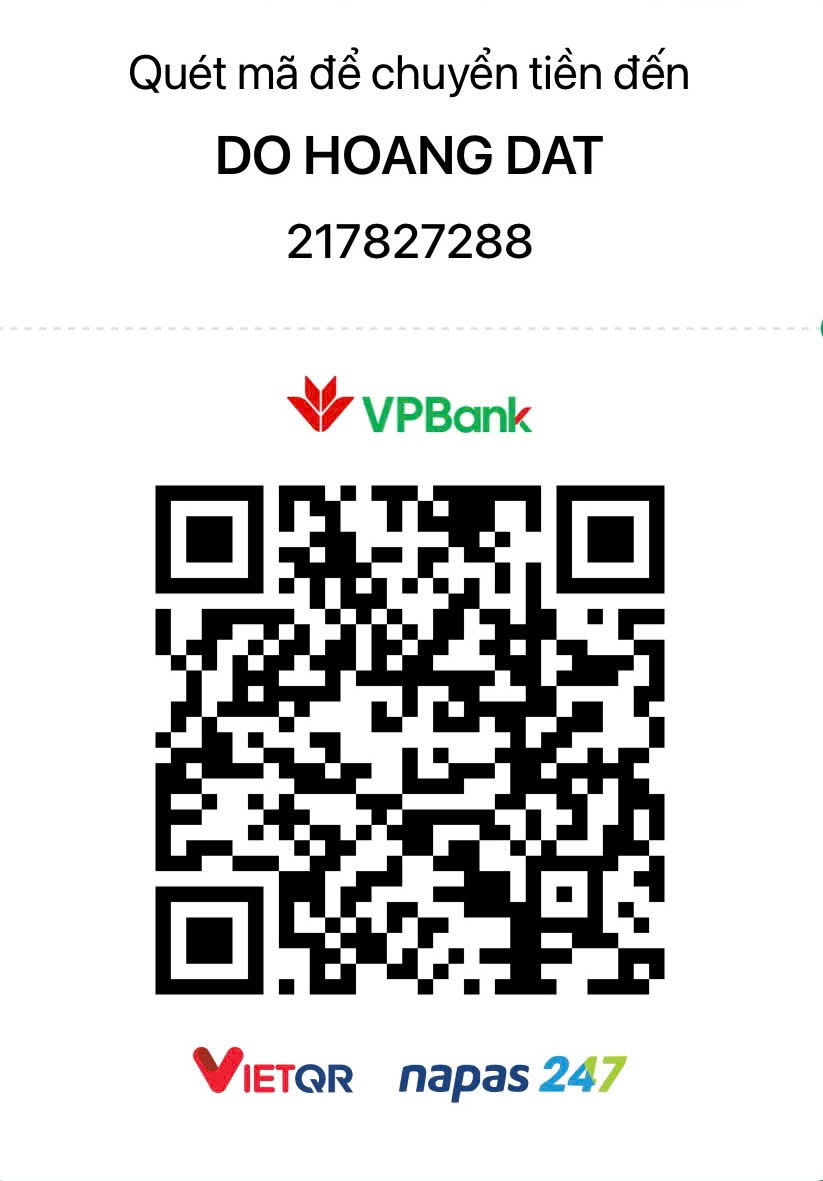
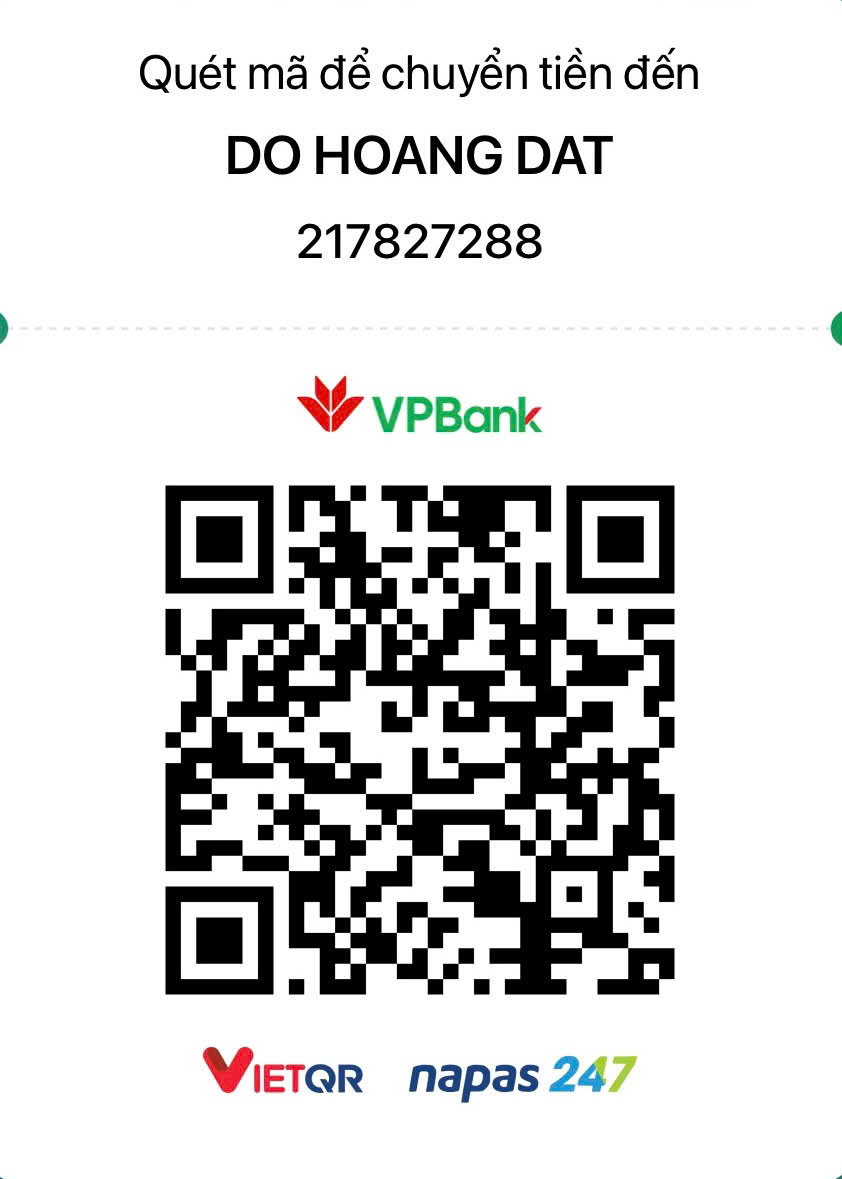
feat: update QR code

diff --git a/src/components/Wishes/index.jsx b/src/components/Wishes/index.jsx
@@ -8,7 +8,7 @@ function Wishes(props) {
   const [isCopied, setIsCopied] = useState(false);
 
   const handleCopyText = async () => {
-    const currentQR = showTicket === 'co_dau' ? '5022032024' : '217827288';
+    const currentQR = showTicket === 'co_dau' ? '107003567696' : '217827288';
 
     try {
       // Copy text to clipboard
@@ -47,12 +47,17 @@ function Wishes(props) {
           style={{
             width: '100%',
             textAlign: 'center',
-            height: showTicket ? '600px' : '0',
+            height: showTicket ? '620px' : '0',
             overflow: 'hidden',
             transition: 'all 0.5s ease-in',
           }}
         >
-          <img src={showTicket === 'co_dau' ? QRCoDau : QRChuRe} alt="qr" style={{ width: '80%' }} loading="lazy" />
+          <img
+            src={showTicket === 'co_dau' ? QRCoDau : QRChuRe}
+            alt="qr"
+            style={{ width: '80%', margin: '8px 0' }}
+            loading="lazy"
+          />
           <button className="btn btn-primary" onClick={handleCopyText}>
             {isCopied ? 'Đã copy Số tài khoản' : 'Copy Số tài khoản'}
           </button>
